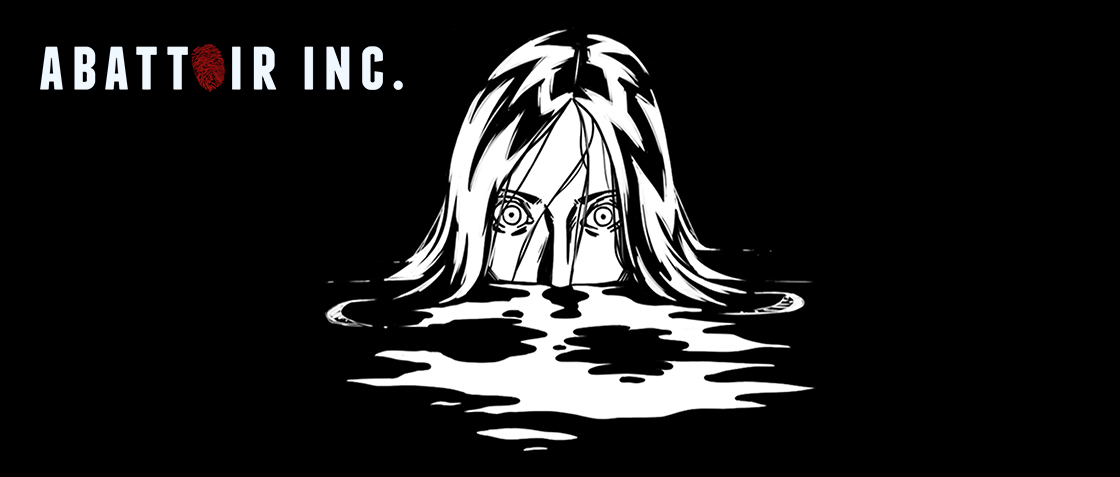
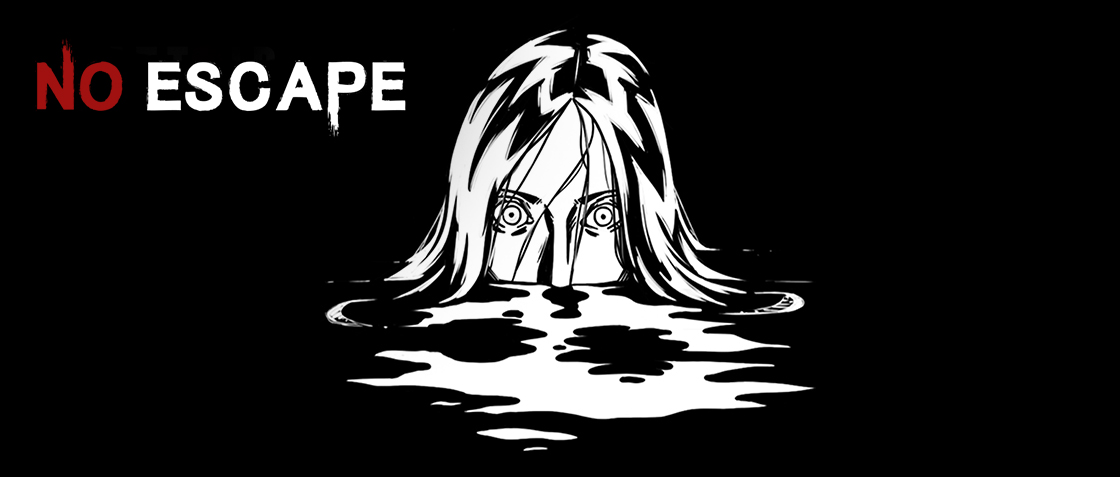
Added No Escape to code.html

Changed region(s): [[0.0312, 0.0881, 0.375, 0.2935], [0.4062, 0.2055, 0.4375, 0.3229]]

diff --git a/blog.html b/blog.html
@@ -62,6 +62,8 @@
          <h1 class="blog-title">Projects</h1>
          <br>
          <ul class="blog-ul">
+            <li class="blog-li"><a class="blog-article" href="./404.html">Film Finder</a></li>
+            <li class="blog-li"><a class="blog-article" href="./404.html">Gallows Game</a></li>
             <li class="blog-li"><a class="blog-article" href="./404.html">Dorsia</a></li>
             <li class="blog-li"><a class="blog-article" href="./404.html">Deep C</a></li>
             <li class="blog-li"><a class="blog-article" href="./404.html">Abattoir Inc.</a></li>

diff --git a/code.html b/code.html
@@ -78,10 +78,10 @@
       </div>
 
       <div class="code-card code-5">
-         <a class="code-container" href="https://jordanbelmont.github.io/abattoir-inc/" target="_blank">
+         <a class="code-container" href="https://jordanbelmont.github.io/no-escape/" target="_blank">
             <div class="code-background-5"></div>
          </a>
-         <h1 class="code-title">Abattoir Inc.</h1>
+         <h1 class="code-title">No Escape</h1>
          <br>
          <h2 class="code-heading">Function</h2>
          <p class="code-stats">Escape Room Static Page</p>

diff --git a/css/code.css b/css/code.css
@@ -52,7 +52,7 @@
 }
 
 .code-background-6 {
-   background-image: url("../images/code-images/Code-6.jpg")
+   background-image: url("../images/code-images/Code-6.png")
 }
 
 .code-title {
